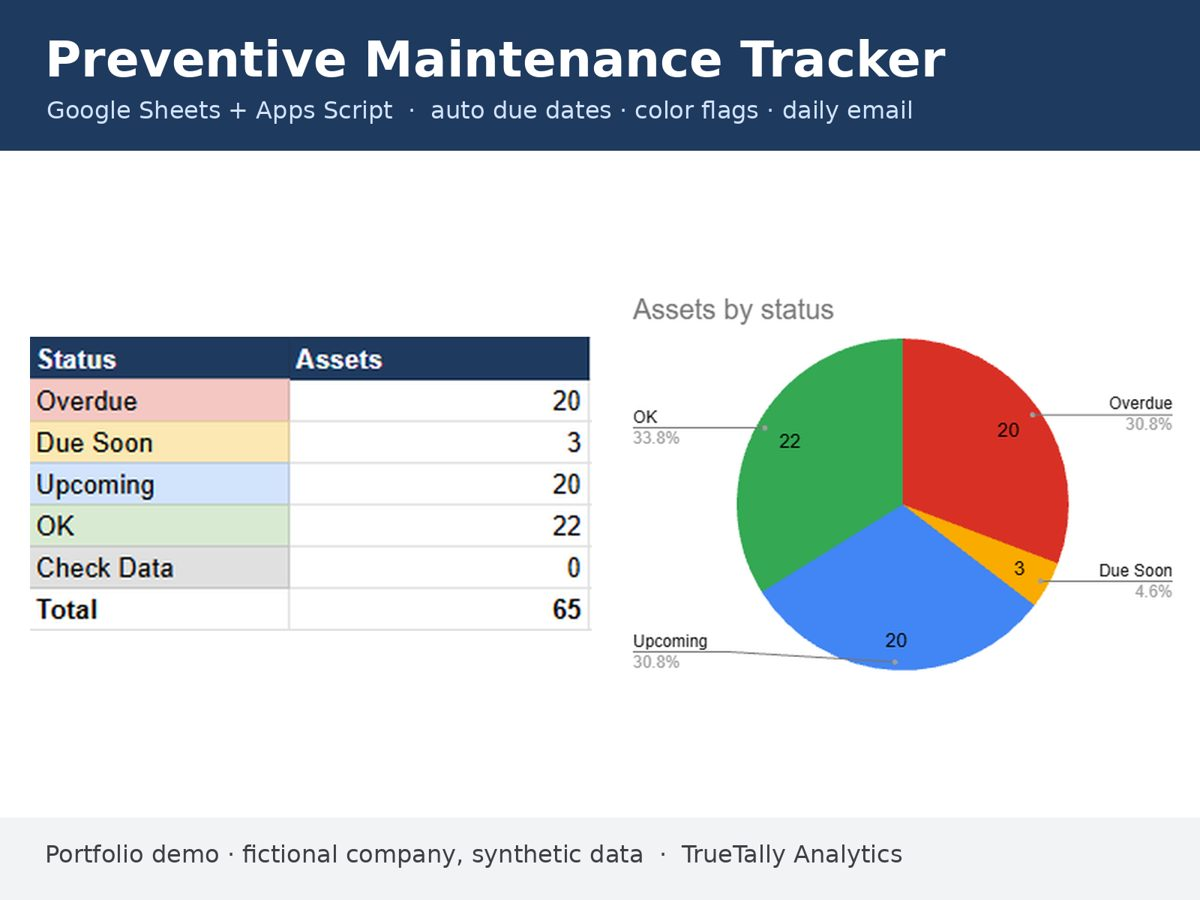
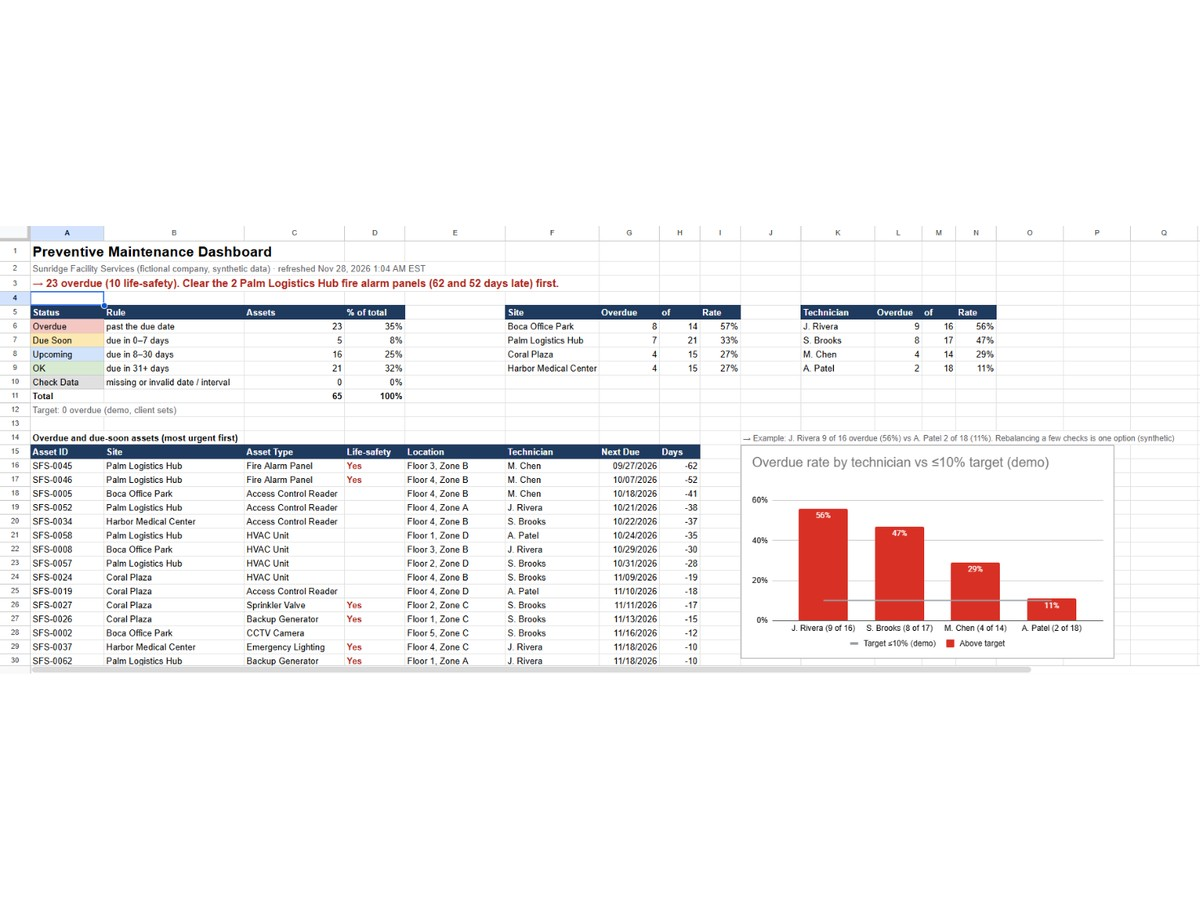
Update public portfolio site (synced from Freelancer-USA Sat 11/28/2026)

diff --git a/index.html b/index.html
@@ -84,7 +84,7 @@
       <div class="item"><img src="img/p04.jpg" alt="Fix-and-flip deal Power BI dashboard, fictional flipper" loading="lazy"><div class="body"><h3>Fix-and-flip deals</h3><p>Where flips lose ROI: deals bought above the 70% rule earned 15.8% vs 23.4%, which active deals to watch, and which trades and contractors blow the rehab budget. Estimates are labeled. 5 automated tests.</p><div class="tags"><span class="tag">Power BI</span><span class="tag">Real estate</span><span class="tag">Rehab cost</span></div></div></div>
       <div class="item"><img src="img/p05.jpg" alt="Restaurant operations Power BI dashboard, fictional restaurant group" loading="lazy"><div class="body"><h3>Restaurant operations</h3><p>Where food and labor cost leak and what to fix this month: one location's spring schedule ($68.6K over the labor target), which dishes to reprice and which to re-cost, and what delivery promos really cost. Demo targets are labeled. 5 automated tests.</p><div class="tags"><span class="tag">Power BI</span><span class="tag">Restaurants</span><span class="tag">Labor &amp; food cost</span></div></div></div>
       <div class="item"><img src="img/p07.jpg" alt="SaaS subscription metrics Power BI dashboard, fictional software company" loading="lazy"><div class="body"><h3>SaaS subscription metrics</h3><p>Whether retention is good enough to grow on (NRR 106%, GRR 88%), where MRR leaks by plan, and which acquisition channel earns the most per trial ($138 vs $53). Demo targets and estimates are labeled. 5 automated tests.</p><div class="tags"><span class="tag">Power BI</span><span class="tag">SaaS</span><span class="tag">Retention</span></div></div></div>
-      <div class="item"><img src="img/p09.jpg" alt="Google Sheets maintenance tracker with Apps Script, fictional company" loading="lazy"><div class="body"><h3>Maintenance tracker in Google Sheets</h3><p>Status logic, live dashboard, one-click service logging and a daily overdue email digest via Apps Script. Covered by 8 automated tests.</p><div class="tags"><span class="tag">Google Sheets</span><span class="tag">Apps Script</span></div></div></div>
+      <div class="item"><img src="img/p09.jpg" alt="Google Sheets maintenance tracker with Apps Script, fictional company" loading="lazy"><div class="body"><h3>Maintenance tracker in Google Sheets</h3><p>Each refresh writes what to clear first (e.g. 23 overdue, 10 life-safety), overdue rate by site and technician vs a demo target, one-click service logging and a daily email via Apps Script. 14 automated tests.</p><div class="tags"><span class="tag">Google Sheets</span><span class="tag">Apps Script</span></div></div></div>
       <div class="item"><img src="img/p10.jpg" alt="Excel to MySQL pipeline: lines removed, rows held out to fix, lines loaded, reconciliation checks" loading="lazy"><div class="body"><h3>Excel tracker to MySQL database</h3><p>Messy workbook cleaned in Python and loaded to a MySQL star schema: 13 double entries removed, 3 rows sent back with the exact cell to fix. 6 of 6 reconciliation checks pass, totals match to the cent.</p><div class="tags"><span class="tag">Python</span><span class="tag">SQL</span><span class="tag">MySQL</span></div></div></div>
       <div class="item"><img src="img/p11.jpg" alt="Multi-store sales reconciliation report" loading="lazy"><div class="body"><h3>Multi-store sales reconciliation</h3><p>Four store exports in different formats reconciled to bank deposits. The net variance (+$441.38) hides $521.38 to resolve on 2 store-days; the report says what to do about each one. 17 automated tests.</p><div class="tags"><span class="tag">Python</span><span class="tag">pandas</span><span class="tag">Excel</span></div></div></div>
       <div class="item"><img src="img/p12.jpg" alt="Bank reconciliation for Xero and QuickBooks Online, fictional company" loading="lazy"><div class="body"><h3>Bank reconciliation for Xero &amp; QuickBooks</h3><p>Bank statement vs. Xero or QuickBooks Online export. Ties to $0.00 and lists what to post: a returned customer check, fees, interest and a keying error that overstate book cash by $1,903. Same ledger as the Xero finance pack. 6 automated tests.</p><div class="tags"><span class="tag">Python</span><span class="tag">Xero</span><span class="tag">QuickBooks</span><span class="tag">Excel</span></div></div></div>
